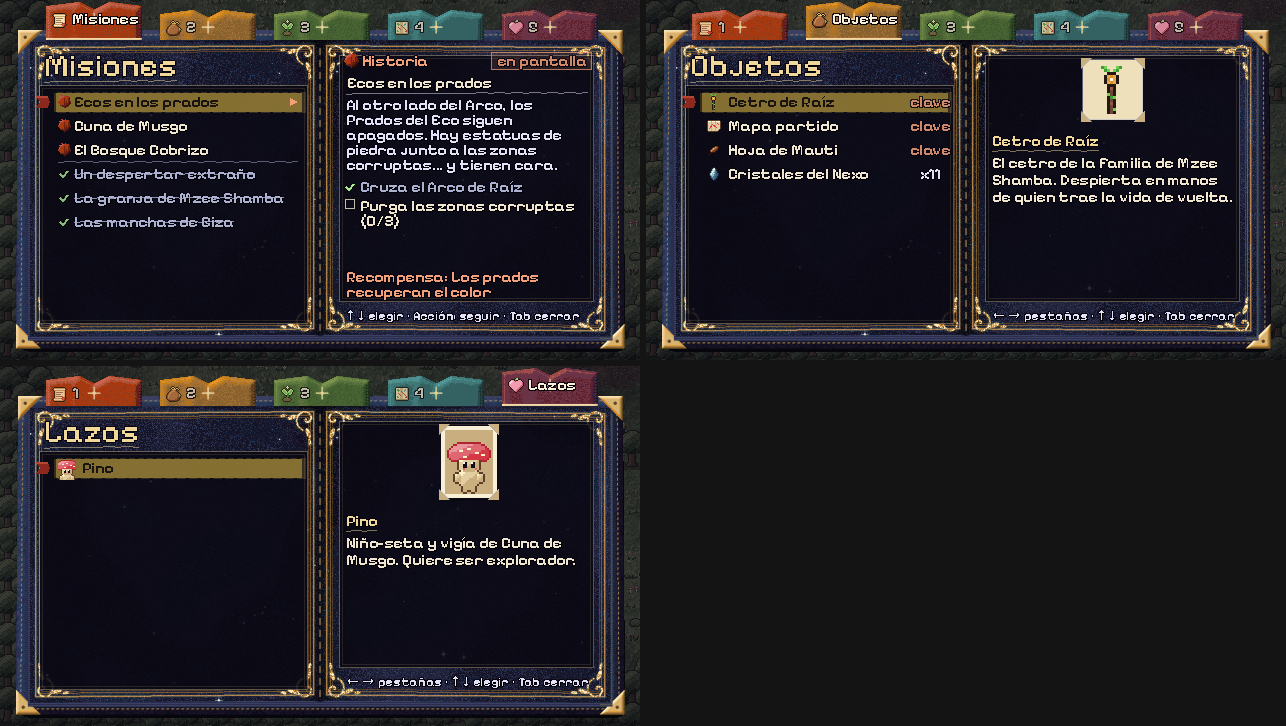
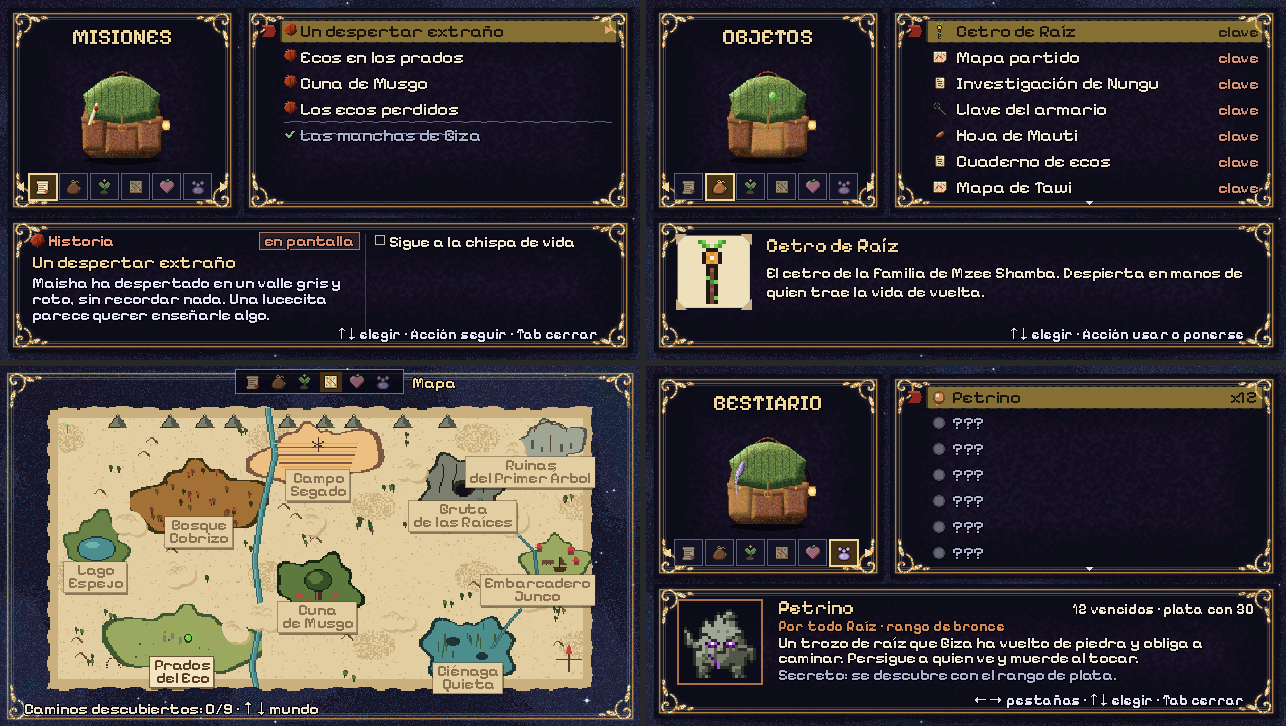
Diario: el mapa de Raíz ampliado con los nombres en etiquetas de pergamino que se leen; letras pequeñas más grandes y claras

diff --git a/LEEME.md b/LEEME.md
@@ -139,7 +139,7 @@ Como en otros juegos, el Kitovu enseña las acciones parando el mundo (`scripts/
 
 El diario tiene estilo **noche mágica** (`herramientas/pintar_interfaz.py`): tapas de cuero azul noche cosidas con hilo de oro y cantoneras doradas, páginas de cielo nocturno (nebulosa suave, estrellas, constelaciones) con borde de filigrana dorada, y la tapa con el Gran Árbol, la luna y estrellas en oro. Las letras de las páginas usan su propia paleta clara (`TN_*` en `mochila.gd`): títulos en oro, texto en crema, la historia en coral y lo cumplido en gris azulado; la fila elegida, en tinta oscura sobre la banda dorada. El mapa sigue siendo de pergamino.
 
-**A pantalla completa, como la bolsa de Pokémon Platino** (`documentacion/diario_bolsa.png`): a la izquierda, la **mochila grande** de Maisha con el nombre del bolsillo encima y los **6 bolsillos** debajo (← → para cambiar; la mochila da un saltito, el bolsillo elegido brilla y asoma lo que guarda: un rollo con sello, el cetro, un brote, un mapa, un colgante o una pluma de búho); a la derecha, la **lista grande** (letra de 18, 7 filas); abajo, a lo ancho, la **descripción** con el dibujo grande (en las misiones, de qué va a la izquierda y los pasos y la recompensa a la derecha). El Mapa y las Habilidades ocupan la pantalla entera, con los bolsillos pequeños arriba. Arte: `bolsa_fondo.png` (cielo de noche con tres marcos de filigrana; los mismos rectángulos que `BOLSA`, `LISTA` y `DESC` en `mochila.gd`), `bolsa_fondo_pleno.png` y `mochila.png` (5 dibujos de 160×160), en `pintar_interfaz.py`. Las letras claras llevan contorno oscuro (`draw_string_outline` en `_texto`).
+**A pantalla completa, como la bolsa de Pokémon Platino** (`documentacion/diario_bolsa.png`): a la izquierda, la **mochila grande** de Maisha con el nombre del bolsillo encima y los **6 bolsillos** debajo (← → para cambiar; la mochila da un saltito, el bolsillo elegido brilla y asoma lo que guarda: un rollo con sello, el cetro, un brote, un mapa, un colgante o una pluma de búho); a la derecha, la **lista grande** (letra de 18, 7 filas); abajo, a lo ancho, la **descripción** con el dibujo grande (en las misiones, de qué va a la izquierda y los pasos y la recompensa a la derecha). El Mapa y las Habilidades ocupan la pantalla entera, con los bolsillos pequeños arriba. Arte: `bolsa_fondo.png` (cielo de noche con tres marcos de filigrana; los mismos rectángulos que `BOLSA`, `LISTA` y `DESC` en `mochila.gd`), `bolsa_fondo_pleno.png` y `mochila.png` (5 dibujos de 160×160), en `pintar_interfaz.py`. Las letras claras llevan contorno oscuro (`draw_string_outline` en `_texto`). En el **mapa de Raíz**, el dibujo se ve ampliado (`MAPA_ESCALA`, 1,32) y cada nombre de lugar va en una etiqueta de pergamino con tinta oscura, escrita aparte y nítida (no se amplía); los contadores de secretos y el alfiler, igual. Ninguna letra del diario baja de 15 (`documentacion/diario_legible.png`).
 
 **El árbol de habilidades** (pestaña Habilidades del diario): un árbol dorado que crece del lomo del libro
 (`arbol_ramas.png` y `nodos.png`, en `pintar_interfaz.py`) con tres ramas: **Raíz** (Semilla, K) a la izquierda,
